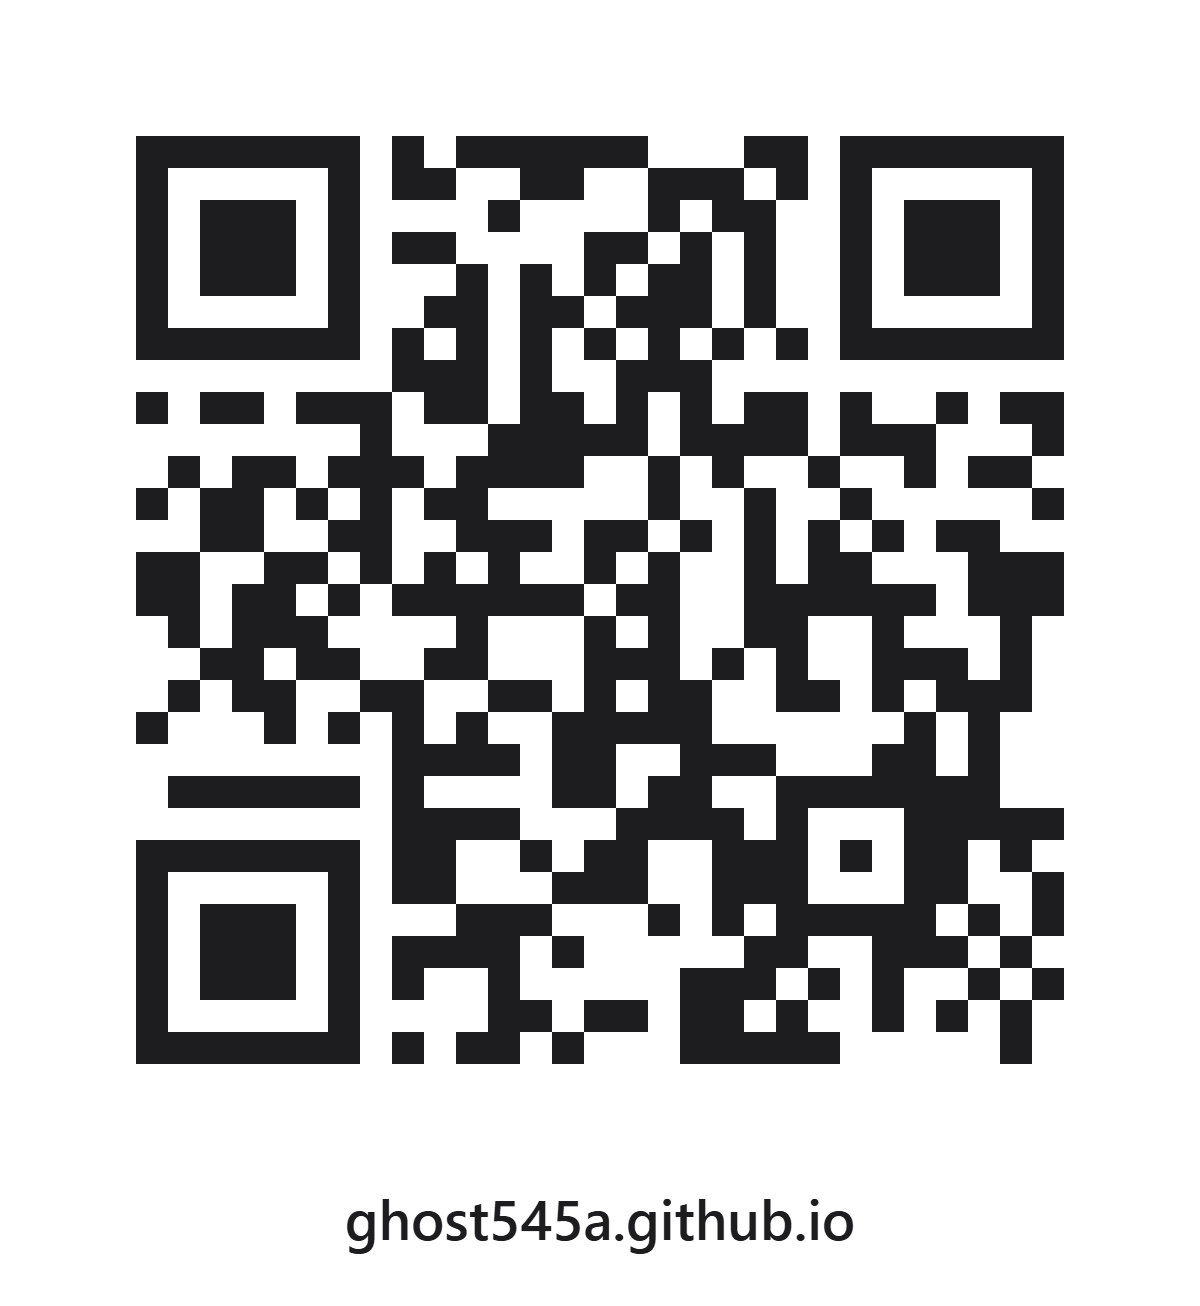
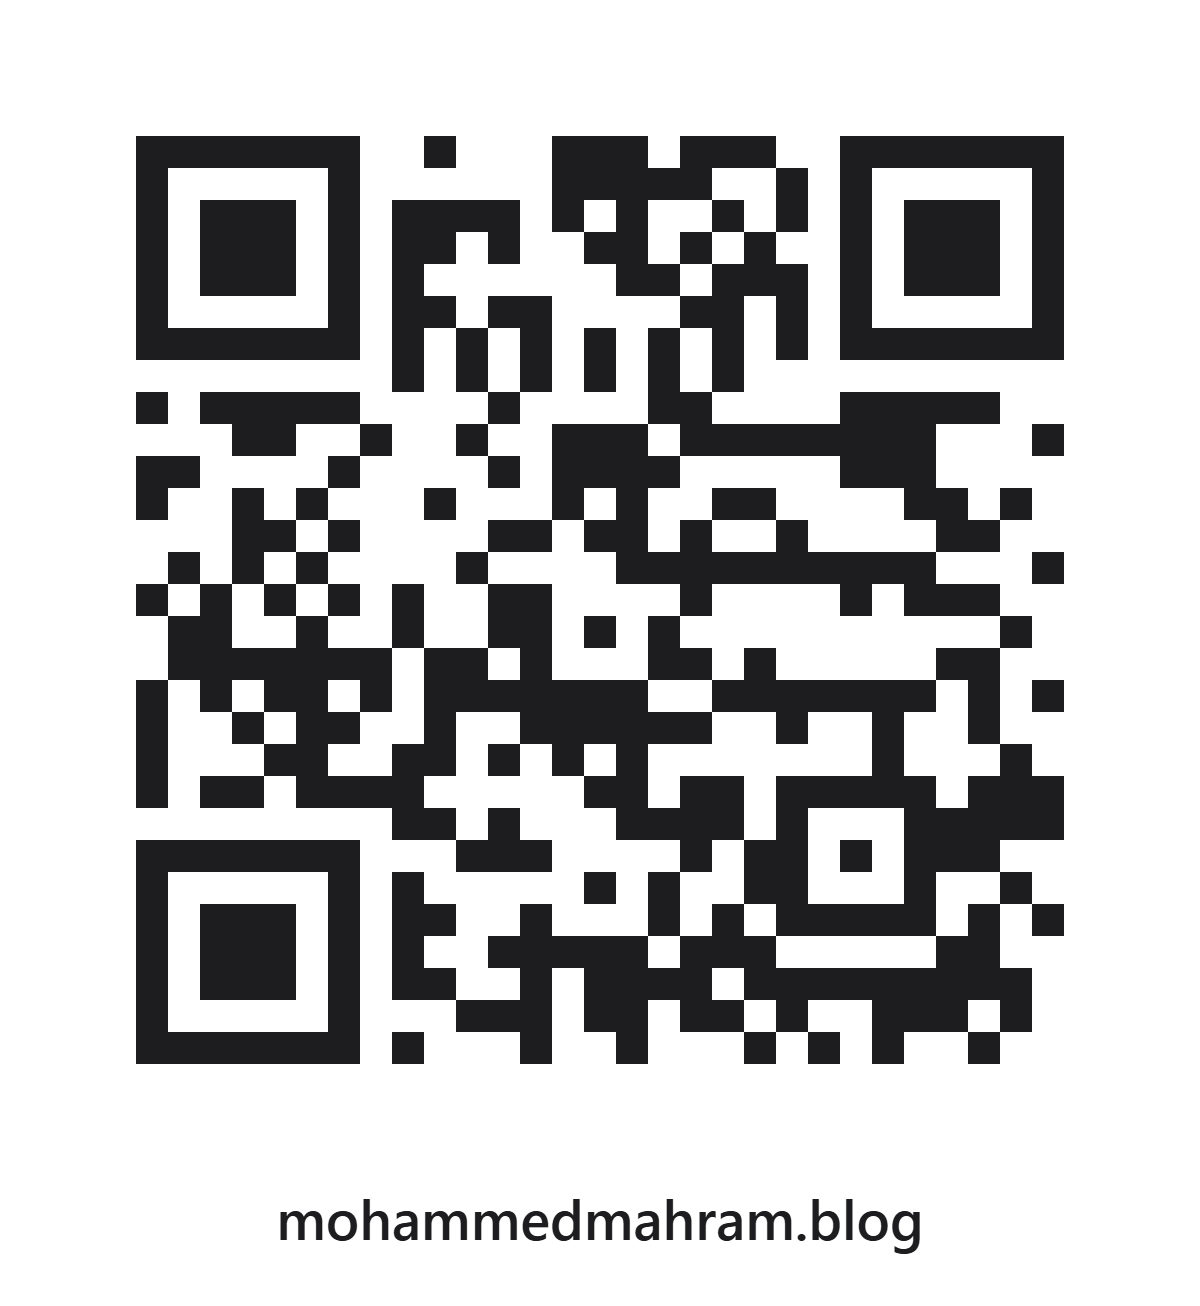
Use the new domain mohammedmahram.blog in links and metadata

Changed region(s): [[0.0925, 0.0919, 0.8942, 0.827], [0.2158, 0.9188, 0.7708, 0.9801]]

diff --git a/index.html b/index.html
@@ -8,7 +8,7 @@
 <meta name="author" content="Mohammed Anwar Mahram">
 <meta property="og:title" content="Convert to QR">
 <meta property="og:description" content="Turn any website link into a QR code PNG, right in your browser.">
-<meta property="og:image" content="https://ghost545a.github.io/convert-to-qr/example.png">
+<meta property="og:image" content="https://mohammedmahram.blog/convert-to-qr/example.png">
 <meta name="theme-color" content="#f5f5f7" media="(prefers-color-scheme: light)">
 <meta name="theme-color" content="#000000" media="(prefers-color-scheme: dark)">
 <link rel="icon" href="favicon.svg" type="image/svg+xml">
@@ -74,7 +74,7 @@
     <div class="field">
       <label for="url">Website link</label>
       <input id="url" type="url" inputmode="url" autocomplete="url" spellcheck="false"
-             placeholder="https://example.com" value="https://ghost545a.github.io/">
+             placeholder="https://example.com" value="https://mohammedmahram.blog/">
     </div>
     <div class="field">
       <label for="note">Extra line under the code (optional)</label>
@@ -87,12 +87,12 @@
 
     <div class="actions">
       <button class="btn" id="download" type="button">Download PNG</button>
-      <a class="btn plain" id="open" href="https://ghost545a.github.io/" target="_blank" rel="noopener">Test the link</a>
+      <a class="btn plain" id="open" href="https://mohammedmahram.blog/" target="_blank" rel="noopener">Test the link</a>
     </div>
   </main>
 
   <footer>
-    Made by <a href="https://ghost545a.github.io/">Mohammed Anwar Mahram</a> · <a href="https://github.com/ghost545a/convert-to-qr">Source on GitHub</a><br>
+    Made by <a href="https://mohammedmahram.blog/">Mohammed Anwar Mahram</a> · <a href="https://github.com/ghost545a/convert-to-qr">Source on GitHub</a><br>
     QR encoding by <a href="https://github.com/kazuhikoarase/qrcode-generator">qrcode-generator</a> (MIT)
   </footer>
 

diff --git a/README.md b/README.md
@@ -2,7 +2,7 @@
 
 Turn any website link into a QR code and download it as a PNG.
 
-**Live:** https://ghost545a.github.io/convert-to-qr/
+**Live:** https://mohammedmahram.blog/convert-to-qr/
 
 - Paste a link (`example.com` works too; `https://` is added for you).
 - Optionally show the link and an extra line of text under the code.
@@ -13,4 +13,4 @@ Everything runs in your browser: plain HTML, CSS and JavaScript, nothing is sent
 
 QR encoding uses [qrcode-generator](https://github.com/kazuhikoarase/qrcode-generator) by Kazuhiko Arase (MIT, see `vendor/LICENSE-qrcode-generator.txt`).
 
-Made by [Mohammed Anwar Mahram](https://ghost545a.github.io/).
+Made by [Mohammed Anwar Mahram](https://mohammedmahram.blog/).
